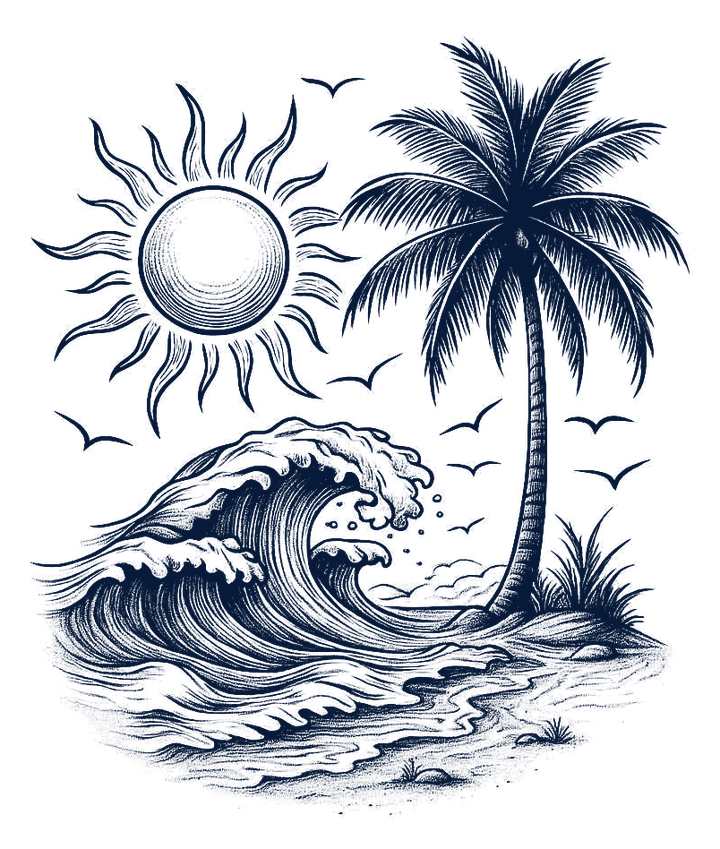
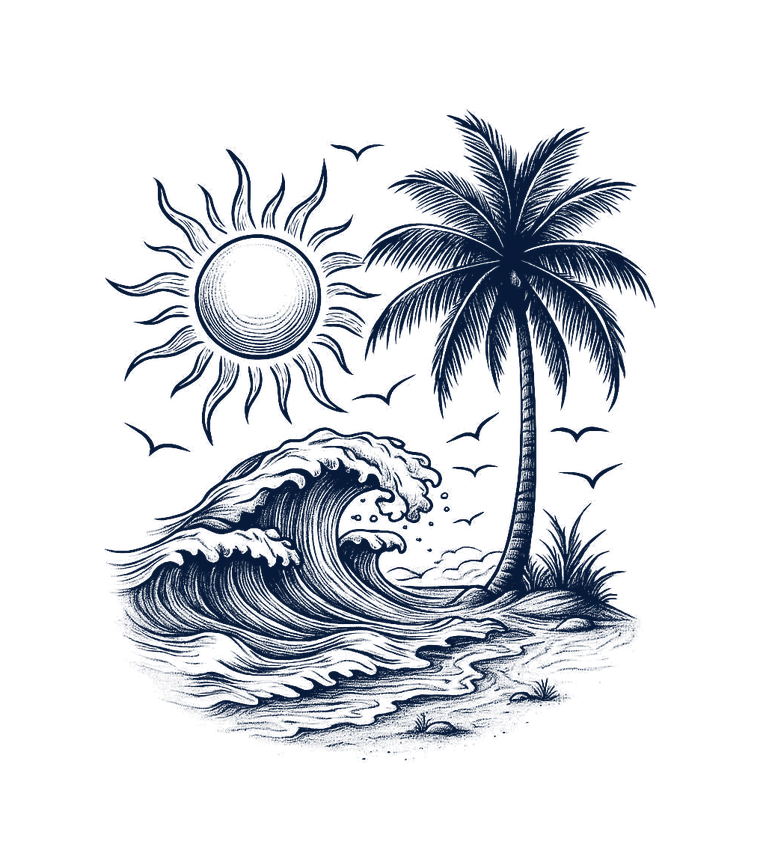
Polish responsive photo layout

diff --git a/app/globals.css b/app/globals.css
@@ -408,8 +408,8 @@ p {
 }
 
 .clone-destination img.clone-destination-filler {
-  width: min(86%, 10.9rem);
-  max-height: clamp(7.75rem, 18vw, 11.8rem);
+  width: min(86%, 11.6rem);
+  max-height: clamp(7.75rem, 18vw, 12.2rem);
   object-fit: contain;
   margin: auto auto 0.85rem;
   border-radius: 0;
@@ -973,7 +973,7 @@ p {
   box-shadow: none;
   flex: 0 0 auto;
   margin: 0.5rem auto 0.35rem;
-  overflow: hidden;
+  overflow: visible;
 }
 
 .clone-journey-icon-frame > img.clone-journey-icon {
@@ -985,7 +985,7 @@ p {
   border: 0;
   background: transparent;
   box-shadow: none;
-  transform: scale(1.06);
+  transform: none;
   transform-origin: center;
 }
 
@@ -1892,8 +1892,15 @@ p {
      masthead feel detached from the top of the paper. */
   .clone-sheet {
     width: min(100% - 1rem, 42rem);
+    max-width: calc(100vw - 1rem);
     padding: 1.35rem clamp(1rem, 5vw, 1.35rem) 1.35rem;
     overflow: hidden;
+  }
+
+  .clone-sheet *,
+  .clone-sheet *::before,
+  .clone-sheet *::after {
+    min-width: 0;
   }
 
   .clone-front {
@@ -1901,9 +1908,9 @@ p {
   }
 
   .clone-paper-title {
-    font-size: clamp(2.7rem, 12.4vw, 3.5rem);
-    line-height: 0.88;
-    letter-spacing: -0.03em;
+    font-size: clamp(2.15rem, 10.2vw, 3rem);
+    line-height: 0.92;
+    letter-spacing: -0.035em;
   }
 
   .clone-tagline {
@@ -1920,14 +1927,15 @@ p {
   }
 
   .clone-breaking h2 {
-    font-size: clamp(3.05rem, 15vw, 4.25rem);
-    line-height: 0.88;
+    font-size: clamp(2.75rem, 12.4vw, 3.85rem);
+    line-height: 0.92;
+    overflow-wrap: anywhere;
   }
 
   .clone-breaking h3 {
     margin-top: 0.65rem;
-    letter-spacing: 0.22em;
-    font-size: clamp(0.95rem, 4vw, 1.2rem);
+    letter-spacing: 0.16em;
+    font-size: clamp(0.78rem, 3.45vw, 1.05rem);
     line-height: 1.35;
   }
 
@@ -1953,6 +1961,11 @@ p {
     object-fit: contain;
   }
 
+  .clone-event-card img {
+    object-fit: contain;
+    background: rgba(255, 253, 248, 0.9);
+  }
+
   .clone-destination,
   .clone-families,
   .clone-event-card,
@@ -1967,20 +1980,23 @@ p {
   }
 
   .clone-edition-hero h1 {
-    font-size: clamp(3rem, 14.3vw, 4rem);
-    line-height: 0.86;
-    letter-spacing: -0.025em;
+    font-size: clamp(2.65rem, 12.1vw, 3.55rem);
+    line-height: 0.9;
+    letter-spacing: -0.03em;
   }
 
   .clone-edition-hero p,
   .clone-rsvp-title p {
-    font-size: clamp(1.25rem, 5.4vw, 1.55rem);
+    max-width: 100%;
+    font-size: clamp(1.05rem, 4.6vw, 1.4rem);
     line-height: 1.12;
+    text-wrap: balance;
   }
 
   .clone-rsvp-title h1 {
-    font-size: clamp(2.45rem, 11.8vw, 3.3rem);
+    font-size: clamp(2rem, 9.6vw, 2.85rem);
     line-height: 0.95;
+    overflow-wrap: anywhere;
   }
 
   .clone-ribbon {
@@ -2018,6 +2034,28 @@ p {
 
   .clone-info-row span {
     font-size: 0.96rem;
+  }
+
+  .clone-destination h3 {
+    max-width: 13ch;
+    font-size: clamp(1.18rem, 5.9vw, 1.55rem);
+    overflow-wrap: normal;
+  }
+
+  .clone-destination img.clone-destination-filler {
+    width: min(78%, 13rem);
+    max-height: 15rem;
+  }
+
+  .clone-stock-table {
+    table-layout: fixed;
+  }
+
+  .clone-stock-table th,
+  .clone-stock-table td {
+    padding: 0.28rem;
+    font-size: 0.68rem;
+    overflow-wrap: anywhere;
   }
 
   .clone-mini-panel {
@@ -2082,6 +2120,8 @@ p {
   .clone-journey-card > p:last-child {
     font-size: 0.72rem;
     line-height: 1.36;
+    overflow-wrap: anywhere;
+    text-wrap: pretty;
   }
 
   .clone-day2-panel {
@@ -2104,6 +2144,7 @@ p {
   .clone-travel li {
     font-size: 0.78rem;
     line-height: 1.35;
+    overflow-wrap: anywhere;
   }
 
   .clone-rsvp-card {
@@ -2270,6 +2311,40 @@ p {
 /* Extra-narrow phones — compress headers further so all three columns
    still sit on one line. */
 @media (max-width: 420px) {
+  .clone-sheet :where(h1, h2, h3, p, li, span, strong, em) {
+    max-width: 100%;
+    overflow-wrap: break-word;
+  }
+
+  .clone-paper-title {
+    font-size: clamp(1.85rem, 8.7vw, 2.35rem);
+    line-height: 0.96;
+  }
+
+  .clone-breaking h2 {
+    font-size: clamp(2.35rem, 10.8vw, 3.1rem);
+  }
+
+  .clone-breaking h3 {
+    letter-spacing: 0.1em;
+    font-size: clamp(0.68rem, 3.05vw, 0.92rem);
+  }
+
+  .clone-edition-hero h1 {
+    font-size: clamp(2.3rem, 10.8vw, 3.05rem);
+  }
+
+  .clone-edition-hero p,
+  .clone-rsvp-title p {
+    max-width: 18rem;
+    margin-inline: auto;
+    font-size: clamp(0.95rem, 4vw, 1.16rem);
+  }
+
+  .clone-rsvp-title h1 {
+    font-size: clamp(1.75rem, 8.8vw, 2.45rem);
+  }
+
   .clone-topline {
     font-size: 0.5rem;
     gap: 0.4rem;
@@ -2300,6 +2375,37 @@ p {
   .clone-issue-header em {
     font-size: 0.46rem;
     letter-spacing: 0.12em;
+  }
+
+  .clone-mini-panel h3,
+  .clone-day2-panel h3 {
+    font-size: 0.9rem;
+  }
+
+  .clone-weather-list li {
+    display: grid;
+    grid-template-columns: minmax(0, 1fr) auto;
+    gap: 0.45rem;
+  }
+
+  .clone-weather-list li strong {
+    text-align: right;
+  }
+
+  .clone-event-card p,
+  .clone-journey-card > p:last-child,
+  .clone-facts-panel span,
+  .clone-day2-panel li,
+  .clone-weather-list li,
+  .clone-headline-list li {
+    font-size: 0.68rem;
+    line-height: 1.32;
+    overflow-wrap: anywhere;
+  }
+
+  .clone-stock-table th,
+  .clone-stock-table td {
+    font-size: 0.62rem;
   }
 }
 